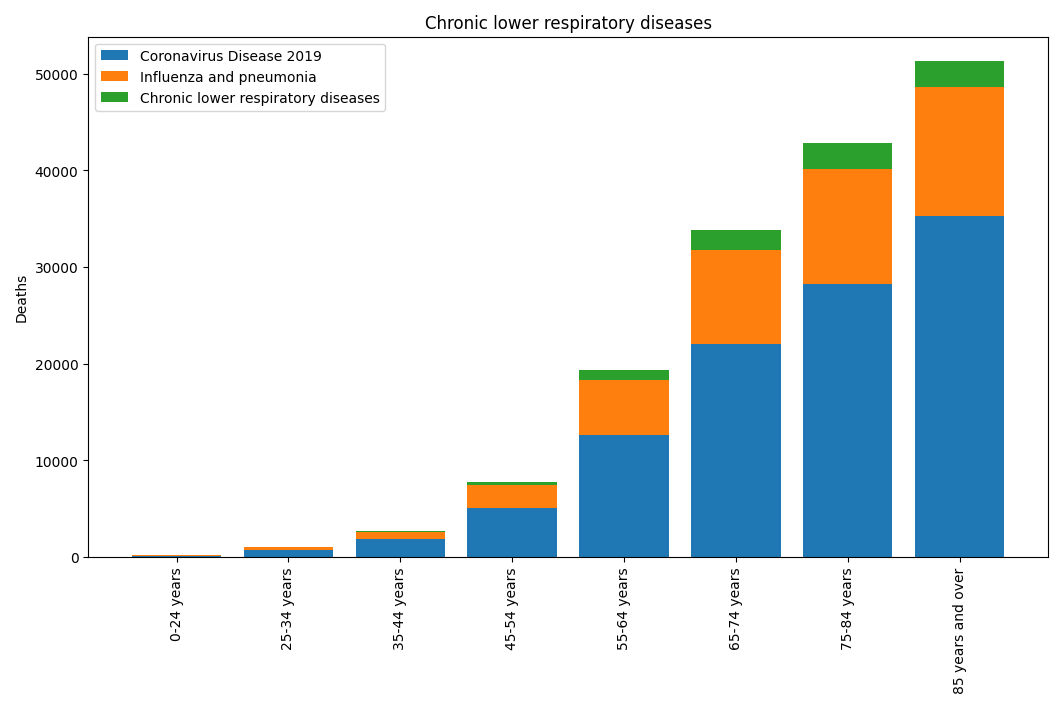
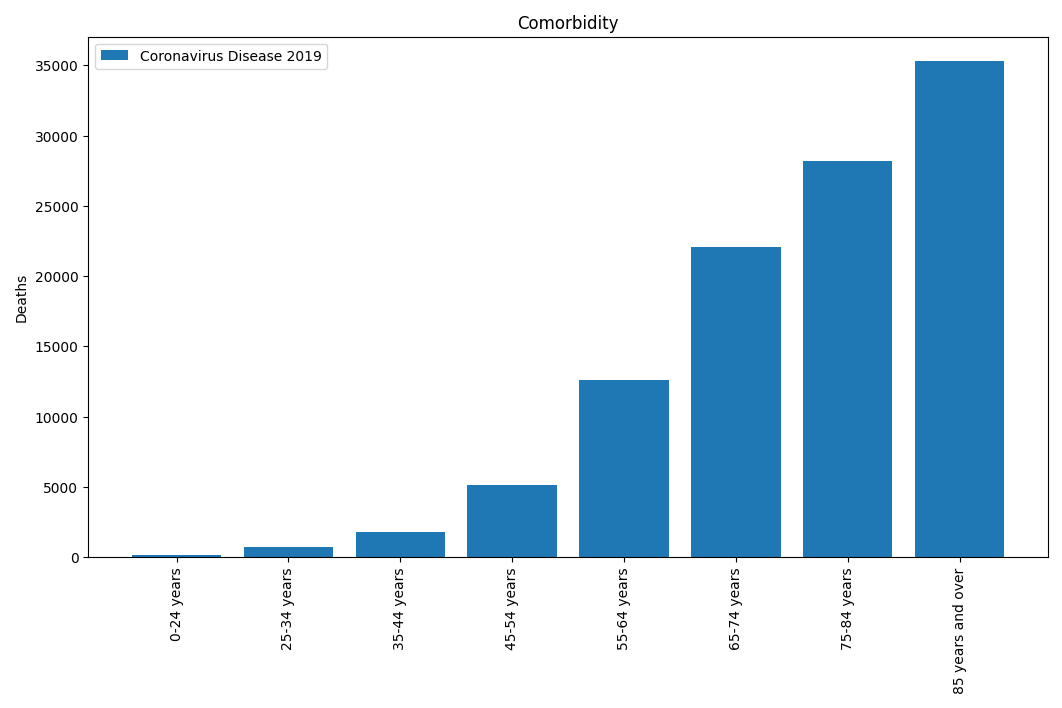
update plots

diff --git a/simulations/death_factors/eda/analyze_death.py b/simulations/death_factors/eda/analyze_death.py
@@ -68,7 +68,7 @@ def vis_comorbidity(comorbidity_data, conditions, outname):
 
     plt.xticks(rotation='vertical')
     plt.legend()
-    ax.set_title(condition)
+    ax.set_title('Comorbidity')
     ax.set_ylabel('Deaths')
     fig.tight_layout()
     fig.savefig(outname, format='png')
@@ -81,6 +81,6 @@ args = parser.parse_args()
 epidemic_data = pd.read_csv(args.epidemic_data[0])
 comorbidity_data = pd.read_csv(args.comorbidity_data[0])
 outdir = args.outdir[0]
-vis_states(epidemic_data, outdir)
-#vis_comorbidity(comorbidity_data, comorbidity_data['Condition'].unique()[:3], outdir+'comorbidity/comorbidity1.png')
-#vis_comorbidity(comorbidity_data, comorbidity_data['Condition'].unique()[3:], outdir+'comorbidity/comorbidity2.png')
+#vis_states(epidemic_data, outdir)
+vis_comorbidity(comorbidity_data, comorbidity_data['Condition'].unique()[:1], outdir+'comorbidity/comorbidity1.png')
+vis_comorbidity(comorbidity_data, comorbidity_data['Condition'].unique()[1:], outdir+'comorbidity/comorbidity2.png')
